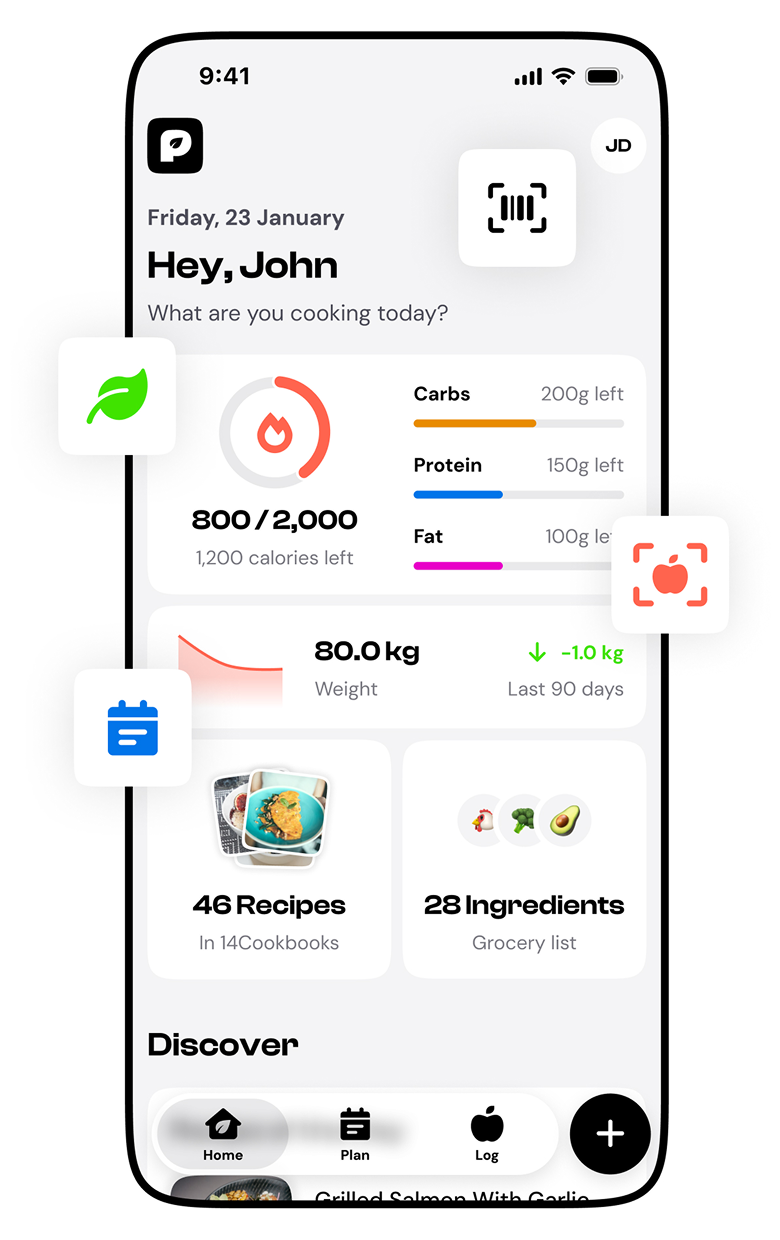
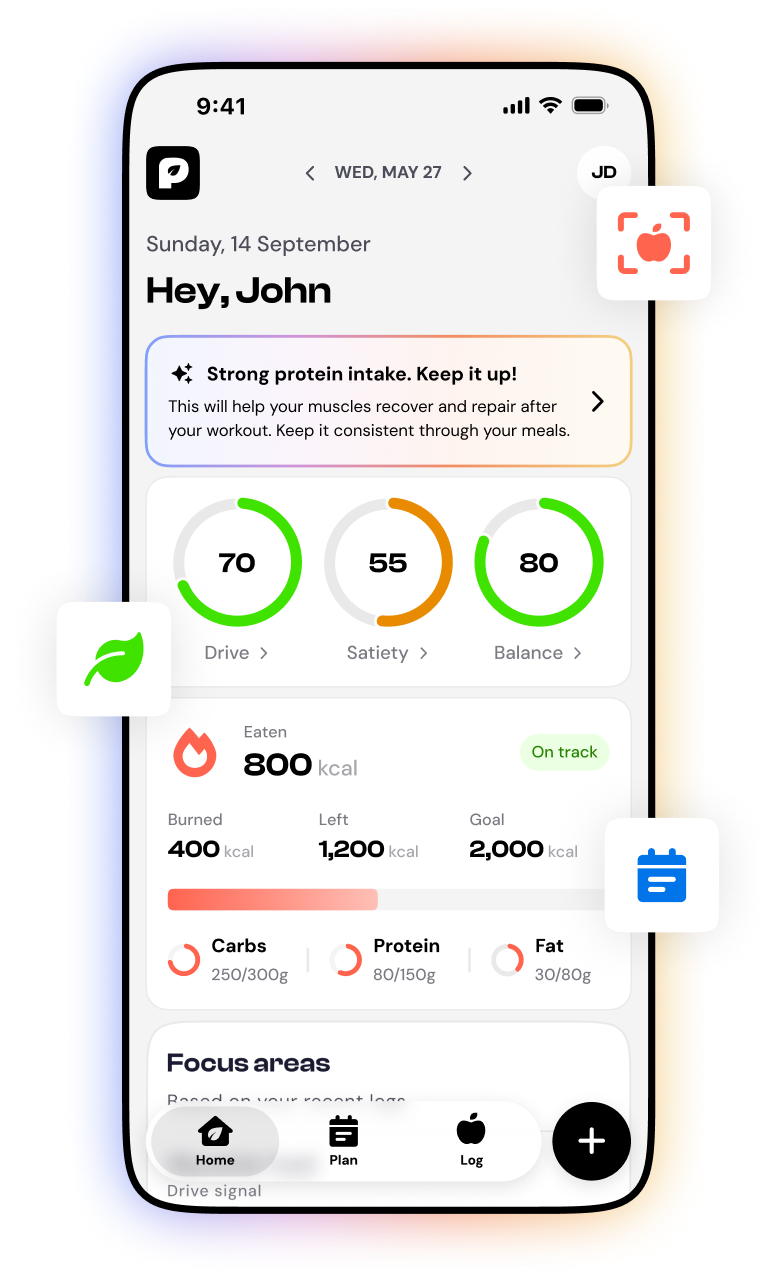
Update hero section layout and add NlLogBottomSheetDemo component for meal logging demonstration

diff --git a/src/app/page.tsx b/src/app/page.tsx
@@ -1,5 +1,6 @@
 import type { Metadata } from "next";
 import Image from "next/image";
+import NlLogBottomSheetDemo from "@/components/NlLogBottomSheetDemo";
 
 export const metadata: Metadata = {
   title: "PrepIt - AI-Powered Meal Planning & Nutrition Tracking",
@@ -35,14 +36,14 @@ export default function Home() {
   return (
     <>
       {/* Hero Section */}
-      <section className="mt-16 flex w-full flex-col items-center bg-white px-4 py-10 lg:mt-16 lg:px-14 lg:py-20">
-        <div className="flex w-full max-w-[1200px] flex-col items-center gap-10 lg:flex-row lg:gap-14">
+      <section className="mt-16 flex w-full flex-col items-center bg-white px-4 pt-2 pb-10 lg:px-14 lg:py-20">
+        <div className="flex w-full max-w-[1200px] flex-col-reverse items-center gap-10 lg:flex-row lg:gap-14">
           {/* Left Content */}
           <div className="flex flex-1 flex-col gap-10">
             <div className="flex flex-col gap-4">
               {/* AI Nutritionist Gradient Text */}
               <p
-                className="bg-clip-text text-[28px] font-semibold leading-normal text-transparent"
+                className="bg-clip-text text-[20px] font-semibold leading-normal text-transparent lg:text-[28px]"
                 style={{
                   fontFamily: "var(--font-brand)",
                   WebkitTextFillColor: "transparent",
@@ -51,27 +52,28 @@ export default function Home() {
                   width: "fit-content",
                 }}
               >
-                AI nutritionist
+                Your AI nutritionist
               </p>
 
-              {/* Heading */}
-              <h1
-                className="text-[40px] font-semibold leading-tight tracking-tight lg:text-[64px] lg:leading-[64px]"
-                style={{ fontFamily: "var(--font-brand)" }}
-              >
-                Plan smarter.
-                <br />
-                Eat better.
-                <br />
-                Stress less.
-              </h1>
-            </div>
+              {/* Heading + description */}
+              <div className="flex flex-col gap-6">
+                <h1
+                  className="text-[40px] font-semibold leading-tight tracking-tight lg:text-[64px] lg:leading-[64px]"
+                  style={{ fontFamily: "var(--font-brand)" }}
+                >
+                  Your meals in.
+                  <br />
+                  Smart nutrition advice out.
+                </h1>
 
-            {/* Description */}
-            <p className="text-base font-normal leading-relaxed text-[var(--black-100)] lg:text-lg lg:leading-[27px]">
-              Meal plans tailored to your goals and lifestyle. Eat with
-              confidence and see real progress every day.
-            </p>
+                <p className="text-base font-normal leading-relaxed text-[var(--black-100)] lg:text-lg lg:leading-[27px]">
+                  Describe any meal in your own words. PrepIt logs it in
+                  seconds, shows how it&apos;ll affect your energy, hunger, and
+                  mood, and tells you what to do next. No food hunts. No guilt.
+                  Just a coach that fits how you actually eat.
+                </p>
+              </div>
+            </div>
 
             {/* App Store Buttons */}
             <div className="flex flex-row justify-start items-start gap-4">
@@ -103,15 +105,21 @@ export default function Home() {
             </div>
           </div>
 
-          {/* Right Phone Mockup */}
-          <div className="flex flex-1 items-center justify-center">
-            <Image
-              src="/hero_image.png"
-              alt="PrepIt App Preview"
-              width={390}
-              height={844}
-              className="w-full max-w-[300px] lg:max-w-[390px]"
-            />
+          {/* Right Phone Mockup — image is 776×1276; mobile shows top 75% */}
+          <div className="relative w-full min-w-0 flex-1 lg:max-w-[420px]">
+            <div className="relative mx-auto w-full overflow-hidden max-lg:aspect-[776/957] lg:aspect-[776/1276]">
+              <Image
+                src="/hero_image.png"
+                alt="PrepIt App Preview"
+                fill
+                priority
+                sizes="(max-width: 1024px) 100vw, 420px"
+                className="object-cover object-top"
+              />
+              <div className="absolute inset-x-[7%] bottom-[5%] z-10">
+                <NlLogBottomSheetDemo overlay />
+              </div>
+            </div>
           </div>
         </div>
       </section>

diff --git a/src/components/NlLogBottomSheetDemo.tsx b/src/components/NlLogBottomSheetDemo.tsx
@@ -1,0 +1,106 @@
+"use client";
+
+import { useEffect, useState } from "react";
+import PrepItIcon from "@/components/shareable/PrepItIcon";
+
+const EXAMPLES = [
+  "chicken wrap, an apple and a flat white",
+  "two eggs on toast and a coffee",
+  "big bowl of pasta and two glasses of wine",
+];
+
+const TYPE_MS = 48;
+const DELETE_MS = 28;
+const PAUSE_MS = 2400;
+
+export default function NlLogBottomSheetDemo({
+  overlay = false,
+}: {
+  overlay?: boolean;
+}) {
+  const [exampleIndex, setExampleIndex] = useState(0);
+  const [text, setText] = useState("");
+  const [isDeleting, setIsDeleting] = useState(false);
+
+  useEffect(() => {
+    const fullText = EXAMPLES[exampleIndex];
+
+    if (!isDeleting && text === fullText) {
+      const timeout = setTimeout(() => setIsDeleting(true), PAUSE_MS);
+      return () => clearTimeout(timeout);
+    }
+
+    if (isDeleting && text === "") {
+      setIsDeleting(false);
+      setExampleIndex((index) => (index + 1) % EXAMPLES.length);
+      return;
+    }
+
+    const timeout = setTimeout(() => {
+      if (isDeleting) {
+        setText(fullText.slice(0, text.length - 1));
+      } else {
+        setText(fullText.slice(0, text.length + 1));
+      }
+    }, isDeleting ? DELETE_MS : TYPE_MS);
+
+    return () => clearTimeout(timeout);
+  }, [text, isDeleting, exampleIndex]);
+
+  return (
+    <div
+      className={`overflow-hidden rounded-2xl border border-[var(--grey-10)] bg-white shadow-[0_-4px_24px_rgba(0,0,0,0.12)] ${
+        overlay ? "w-full" : "w-full max-w-[380px]"
+      }`}
+      aria-hidden="true"
+    >
+      <div
+        className={`flex flex-col ${overlay ? "px-3 pb-3 pt-2" : "px-4 pb-4 pt-3"}`}
+      >
+        <div className={`flex justify-center ${overlay ? "mb-2" : "mb-3"}`}>
+          <div className="h-1 w-10 rounded-full bg-[#D3D3D5]" />
+        </div>
+
+        <h3
+          className={`font-semibold text-[var(--black-100)] ${
+            overlay ? "text-base leading-6" : "text-xl leading-[30px]"
+          }`}
+        >
+          Describe your meal
+        </h3>
+        <p
+          className={`mt-0.5 text-[var(--grey-60)] ${
+            overlay ? "text-xs leading-4" : "text-base leading-6"
+          }`}
+        >
+          Amount, brand, and restaurant details help improve accuracy.
+        </p>
+
+        <div className={`flex items-end gap-1.5 ${overlay ? "mt-3" : "mt-6"}`}>
+          <div
+            className={`min-h-[40px] flex-1 rounded-xl bg-[var(--grey-5)] px-3 py-2 ${
+              overlay ? "" : "min-h-[48px] px-4 py-3"
+            }`}
+          >
+            <p
+              className={`min-h-[20px] text-[var(--black-100)] ${
+                overlay ? "text-sm leading-5" : "text-base leading-6"
+              }`}
+            >
+              {text}
+              <span className="ml-px inline-block h-[14px] w-0.5 translate-y-0.5 animate-pulse bg-[var(--black-100)]" />
+            </p>
+          </div>
+
+          <div
+            className={`flex shrink-0 items-center justify-center rounded-xl bg-[var(--black-100)] ${
+              overlay ? "h-10 w-10" : "h-12 w-12"
+            }`}
+          >
+            <PrepItIcon name="arrowUp" size={overlay ? 20 : 24} color="#ffffff" />
+          </div>
+        </div>
+      </div>
+    </div>
+  );
+}

diff --git a/src/components/NavigationWrapper.tsx b/src/components/NavigationWrapper.tsx
@@ -13,8 +13,8 @@ export default function NavigationWrapper() {
       <nav className="fixed left-0 right-0 top-0 z-50 bg-white lg:px-14">
         <div className="mx-auto flex w-full max-w-[1200px] items-center justify-between px-4 py-4 lg:px-0">
           {/* Logo */}
-          <Link href="/" className="flex items-center gap-2.5">
-            <div className="relative h-10 w-10">
+          <Link href="/" className="flex items-center gap-2 lg:gap-2.5">
+            <div className="relative h-8 w-8 lg:h-10 lg:w-10">
               <Image
                 src="/logo.png"
                 alt="PrepIt Mark"
@@ -23,7 +23,7 @@ export default function NavigationWrapper() {
               />
             </div>
             <span
-              className="text-[29.6px] font-semibold leading-[36px]"
+              className="text-[22px] font-semibold leading-[28px] lg:text-[29.6px] lg:leading-[36px]"
               style={{ fontFamily: "var(--font-brand)" }}
             >
               PrepIt
@@ -110,7 +110,7 @@ export default function NavigationWrapper() {
 
       {/* Mobile Menu Drawer */}
       <div
-        className={`fixed left-0 right-0 top-[72px] z-40 bg-white shadow-lg transition-all duration-300 ease-in-out lg:hidden ${
+        className={`fixed left-0 right-0 top-[64px] z-40 bg-white shadow-lg transition-all duration-300 ease-in-out lg:hidden ${
           mobileMenuOpen
             ? "translate-y-0 opacity-100"
             : "-translate-y-full opacity-0 pointer-events-none"
